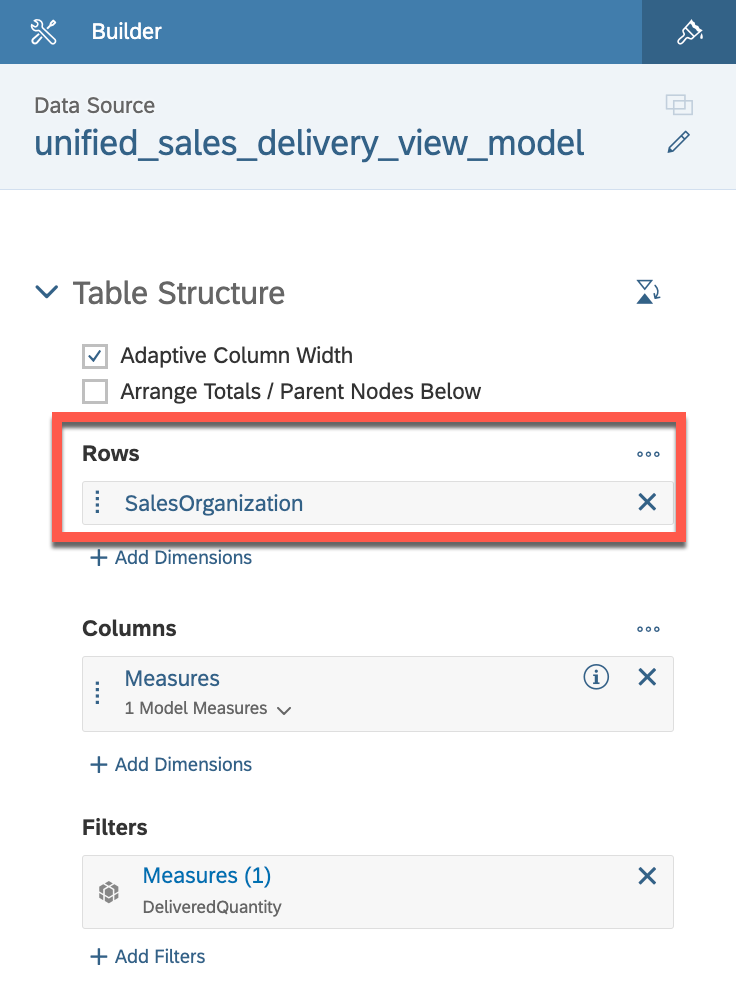
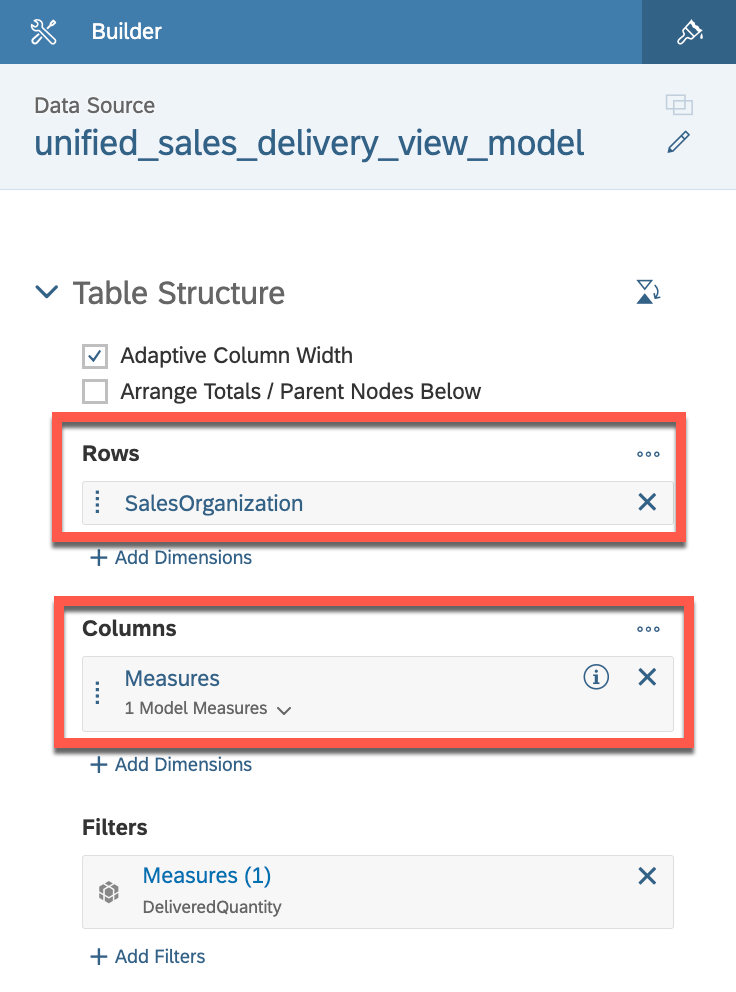
Updated ex3,5,6

Changed region(s): [[0.0625, 0.5938, 0.9688, 0.7812]]

diff --git a/exercises/ex6/README.md b/exercises/ex6/README.md
@@ -48,10 +48,6 @@ Below you can find the final result of your dashboard:
 
 You can add more charts to the dashboard at any time to extend its capabilities and better meet the business requirements. The SAP Analytics Cloud platform offers a wide range of chart options, making it possible to display data in a variety of ways to suit different needs and preferences.
 
->An example of more extensive dashboard can be found below
-
- ![SAC Result](images/result2.png)
-
 ## Congratulations!
 
 Congratulations! You've now created your first dashboard using SAP Analytics Cloud to gain insights into sales data based on different sales organizations and order quantities. Through this hands-on exercise, you learned how to use the platform to create a simple dashboard to analyze and visualize the data. 

diff --git a/exercises/ex3/README.md b/exercises/ex3/README.md
@@ -39,12 +39,13 @@ This exercise focuses on adding the **"unified_sales_delivery_view_model"** mode
     ![SAC Data](images/sacdata.png)
 
 2.  👉 Select the connection **SAP Datasphere** as a source, your space and the dataset
-    - Connection: **PAADWC**
+    - Connection: **TECHED2023**
     - Space: **TECHED_\<USER_NO>**
     - Dataset: **unified_sales_delivery_view_model**
   
     ![SAC Data](images/select_datasphere.png)
 
+You have now successfully imported Data from your SAP Datashpere instance to SAC. 
 
 ## Congratulations!
 

diff --git a/exercises/ex5/README.md b/exercises/ex5/README.md
@@ -23,6 +23,7 @@ After assigning the dataset, you can start building your first charts
 
 2. 👉 Select the table and add the following properties in a **Builder** on the right panel 
     - Rows: **SalesOrganization**
+    - Columns: **Measures**
 
    ![SAC Chart](images/rowsselect.png)
 
